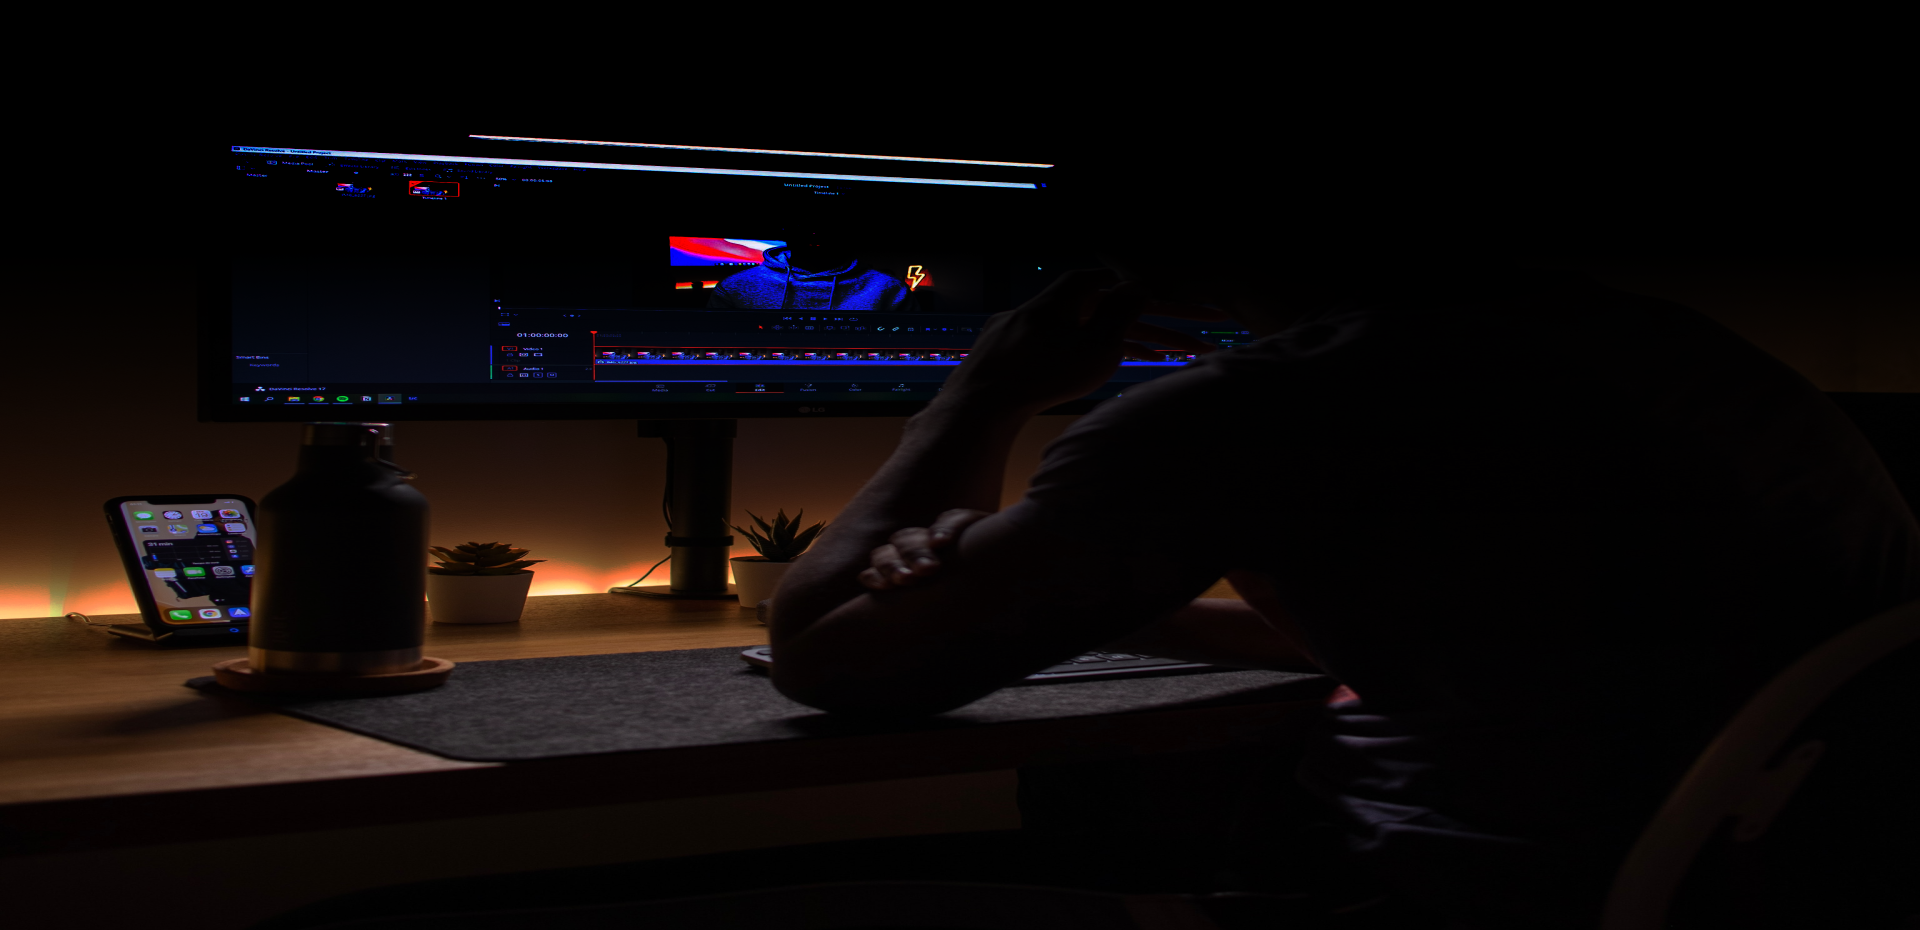
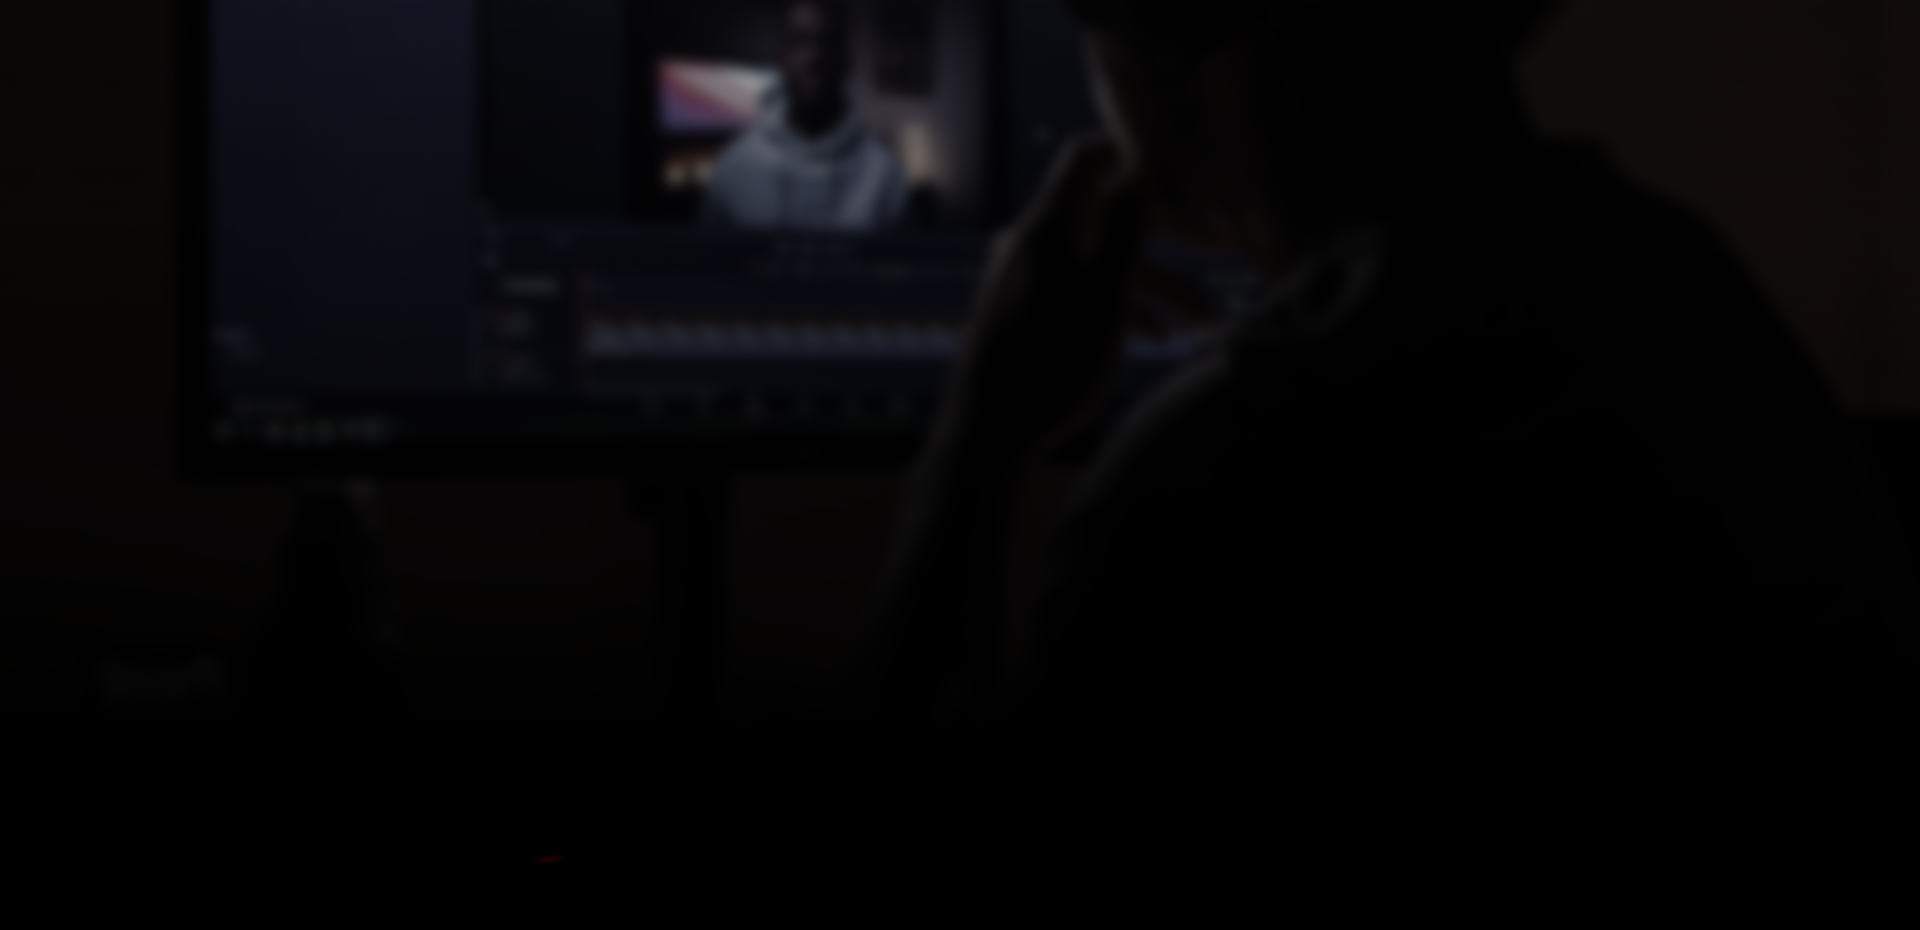
update main bg

diff --git a/style.css b/style.css
@@ -4,7 +4,7 @@
 }
 
 .l-intro{
-    background-image: url("ASSETS/bgmain.png");
+    background-image: url("ASSETS/Motion-bg.png");
     background-size: cover;
     background-repeat: no-repeat;
     height: 50.250vw;
